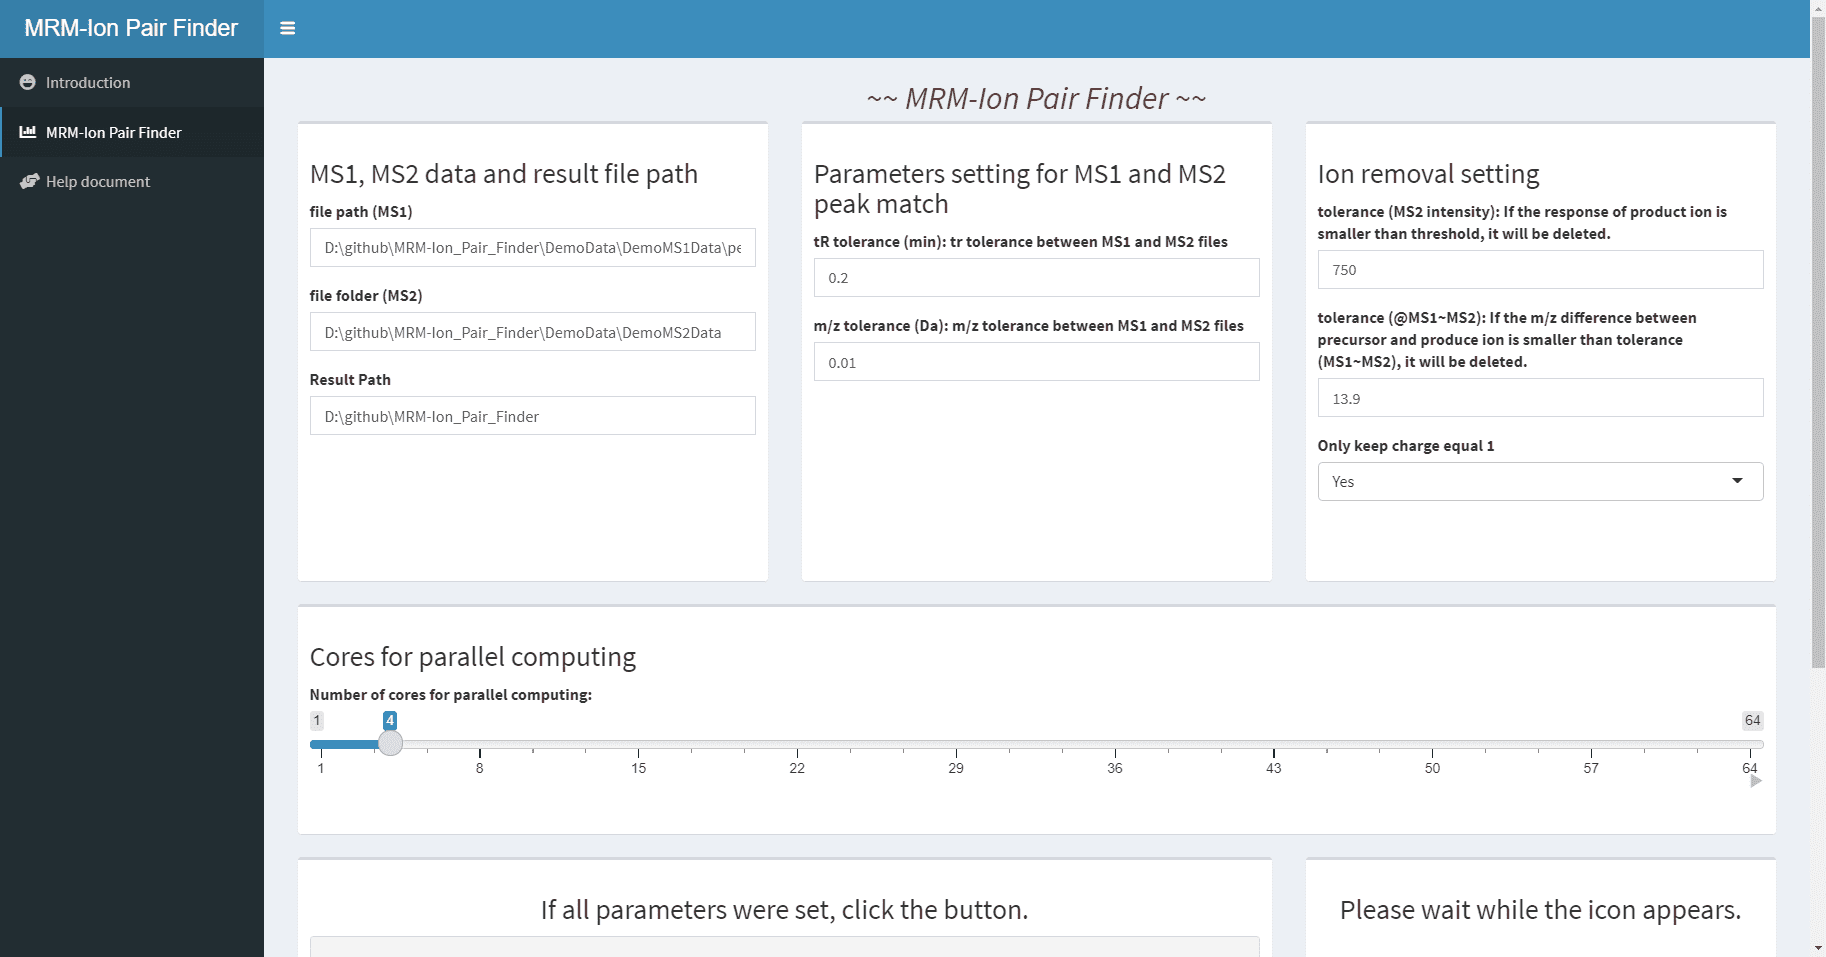
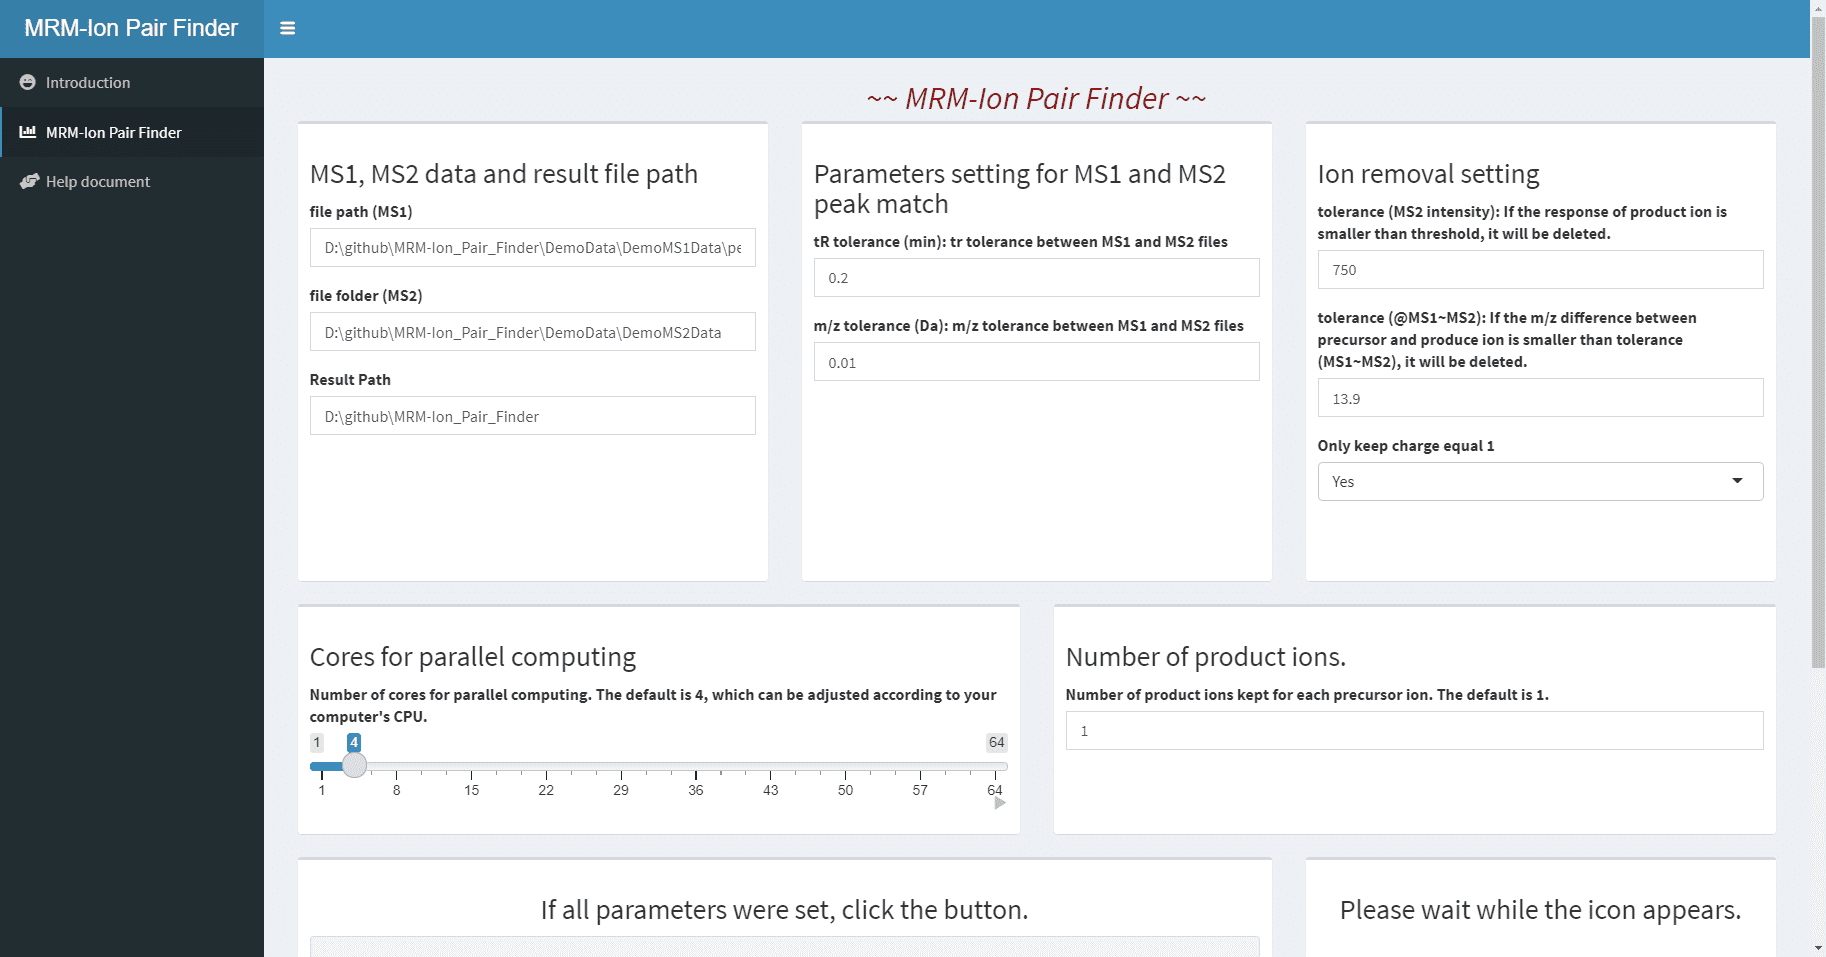
MRMFinder v2.3.0

diff --git a/README.md b/README.md
@@ -34,21 +34,25 @@ data_ms1ms2_final <- MRM_Ion_Pair_Finder(file_MS1 = "F:\\MRM-Ion Pair Finder\\MS
                                          diff_MS2MS1 = 13.9,
                                          ms2_intensity = 750,
                                          resultpath = "F:\\MRM-Ion Pair Finder",
-                                         OnlyKeepChargeEqual1 = T)
+                                         OnlyKeepChargeEqual1 = T,
+                       					 NumOfProductIons = 1,
+                                         cores = 4)
 ```
 
 The meaning of parameters are shown below:
 
-| Parameters           | Meaning                                             |
-| :------------------- | :-------------------------------------------------- |
-| file_MS1             | MS1 file (.csv)                                     |
-| filepath_MS2         | filepath of MS2 file (.mgf)                         |
-| tol_mz               | m/z tolerance between MS1 and MS2 files             |
-| tol_rt               | retention time tolerance between MS1 and MS2 files  |
-| diff_MS2MS1          | smallest tolerance between precusor and product ion |
-| ms2_intensity        | smallest intensity of product ion                   |
-| resultpath           | result(.csv) filepath                               |
-| OnlyKeepChargeEqual1 | If TRUE, only keep the MS2 spectra with charge = 1. |
+| Parameters           | Meaning                                                      |
+| :------------------- | :----------------------------------------------------------- |
+| file_MS1             | MS1 file (.csv)                                              |
+| filepath_MS2         | filepath of MS2 file (.mgf)                                  |
+| tol_mz               | m/z tolerance between MS1 and MS2 files                      |
+| tol_rt               | retention time tolerance between MS1 and MS2 files           |
+| diff_MS2MS1          | smallest tolerance between precusor and product ion          |
+| ms2_intensity        | smallest intensity of product ion                            |
+| resultpath           | result(.csv) filepath                                        |
+| OnlyKeepChargeEqual1 | If TRUE, only keep the MS2 spectra with charge = 1.          |
+| NumOfProductIons     | Number of product ions kept for each precursor ion. The default is 1. |
+| cores                | Number of CPU cores used for parallel computing. The default is 4. |
 
 
 ##### Notice！！！
@@ -106,3 +110,8 @@ Add error notification.
 ### 2021/04/04
 
 Parallel computing increases speed.
+
+### 2021/04/07
+
+Added option to retain multiple product ions.
+

diff --git a/inst/extdata/shinyApp/README.md b/inst/extdata/shinyApp/README.md
@@ -34,21 +34,25 @@ data_ms1ms2_final <- MRM_Ion_Pair_Finder(file_MS1 = "F:\\MRM-Ion Pair Finder\\MS
                                          diff_MS2MS1 = 13.9,
                                          ms2_intensity = 750,
                                          resultpath = "F:\\MRM-Ion Pair Finder",
-                                         OnlyKeepChargeEqual1 = T)
+                                         OnlyKeepChargeEqual1 = T,
+                       					 NumOfProductIons = 1,
+                                         cores = 4)
 ```
 
 The meaning of parameters are shown below:
 
-| Parameters           | Meaning                                             |
-| :------------------- | :-------------------------------------------------- |
-| file_MS1             | MS1 file (.csv)                                     |
-| filepath_MS2         | filepath of MS2 file (.mgf)                         |
-| tol_mz               | m/z tolerance between MS1 and MS2 files             |
-| tol_rt               | retention time tolerance between MS1 and MS2 files  |
-| diff_MS2MS1          | smallest tolerance between precusor and product ion |
-| ms2_intensity        | smallest intensity of product ion                   |
-| resultpath           | result(.csv) filepath                               |
-| OnlyKeepChargeEqual1 | If TRUE, only keep the MS2 spectra with charge = 1. |
+| Parameters           | Meaning                                                      |
+| :------------------- | :----------------------------------------------------------- |
+| file_MS1             | MS1 file (.csv)                                              |
+| filepath_MS2         | filepath of MS2 file (.mgf)                                  |
+| tol_mz               | m/z tolerance between MS1 and MS2 files                      |
+| tol_rt               | retention time tolerance between MS1 and MS2 files           |
+| diff_MS2MS1          | smallest tolerance between precusor and product ion          |
+| ms2_intensity        | smallest intensity of product ion                            |
+| resultpath           | result(.csv) filepath                                        |
+| OnlyKeepChargeEqual1 | If TRUE, only keep the MS2 spectra with charge = 1.          |
+| NumOfProductIons     | Number of product ions kept for each precursor ion. The default is 1. |
+| cores                | Number of CPU cores used for parallel computing. The default is 4. |
 
 
 ##### Notice！！！
@@ -106,3 +110,8 @@ Add error notification.
 ### 2021/04/04
 
 Parallel computing increases speed.
+
+### 2021/04/07
+
+Added option to retain multiple product ions.
+
